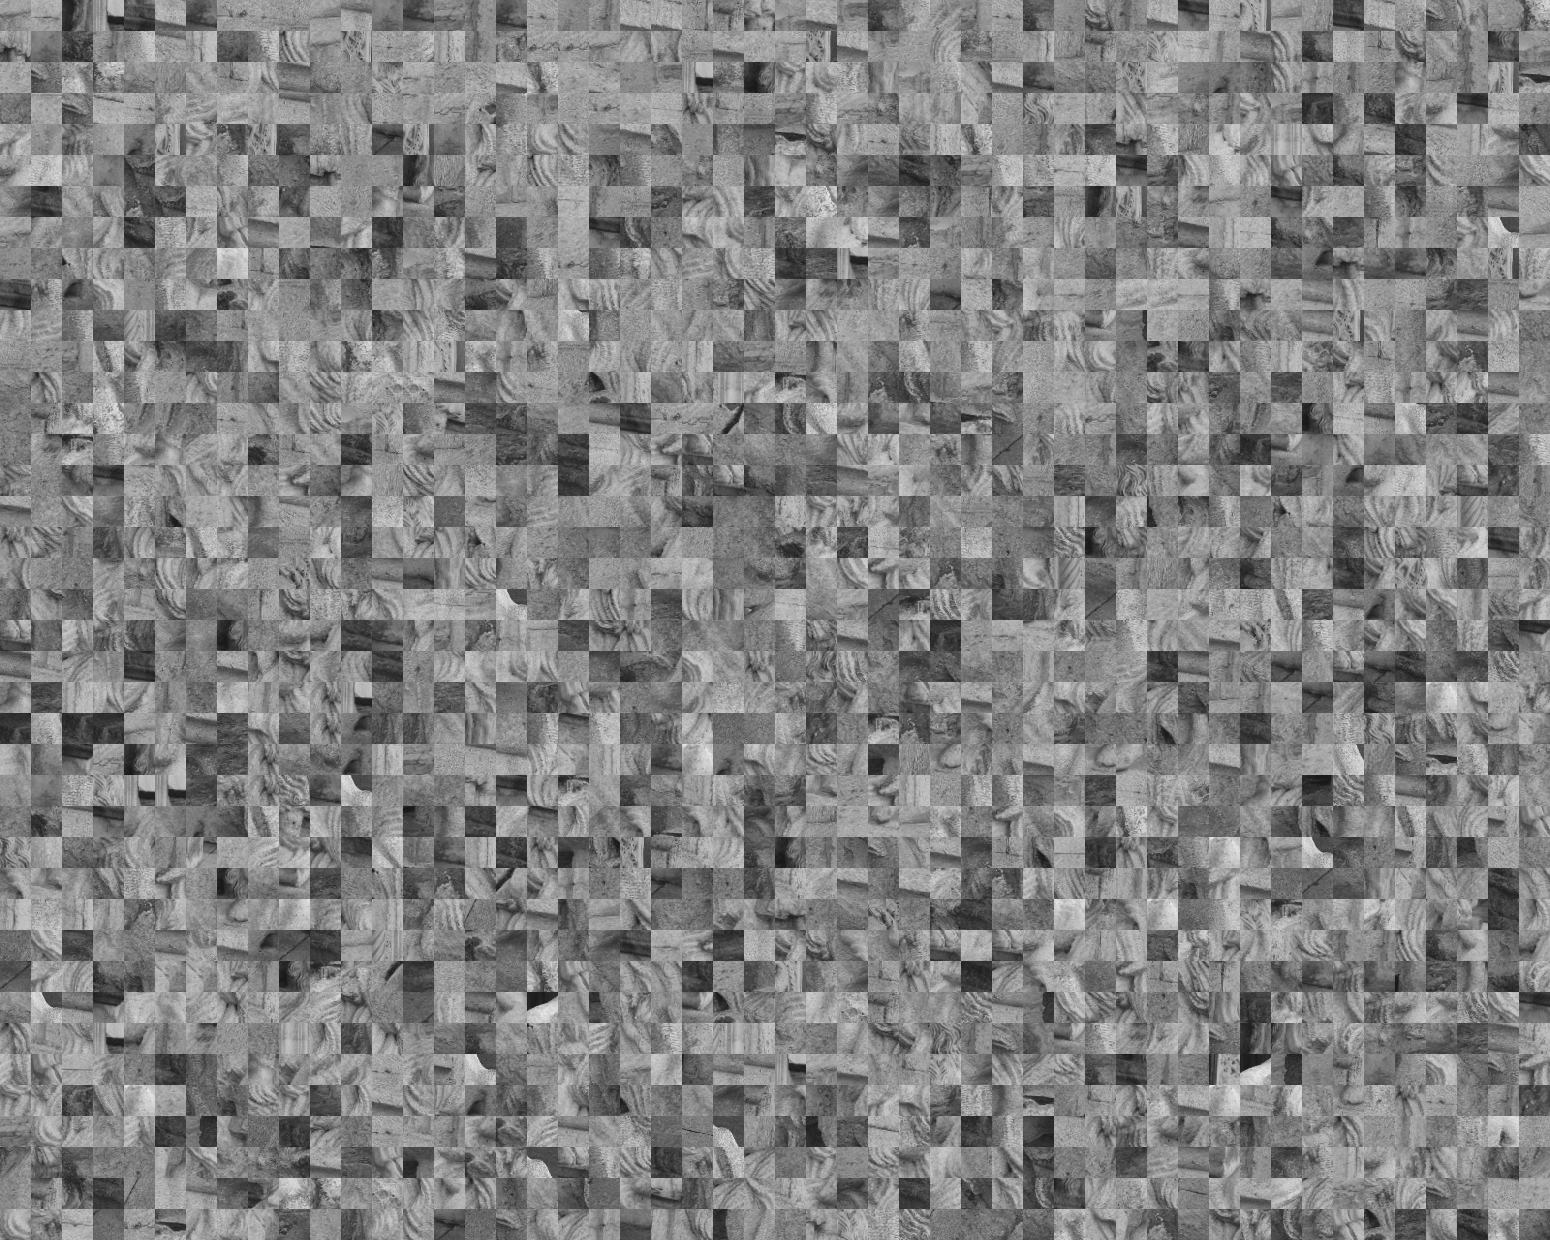
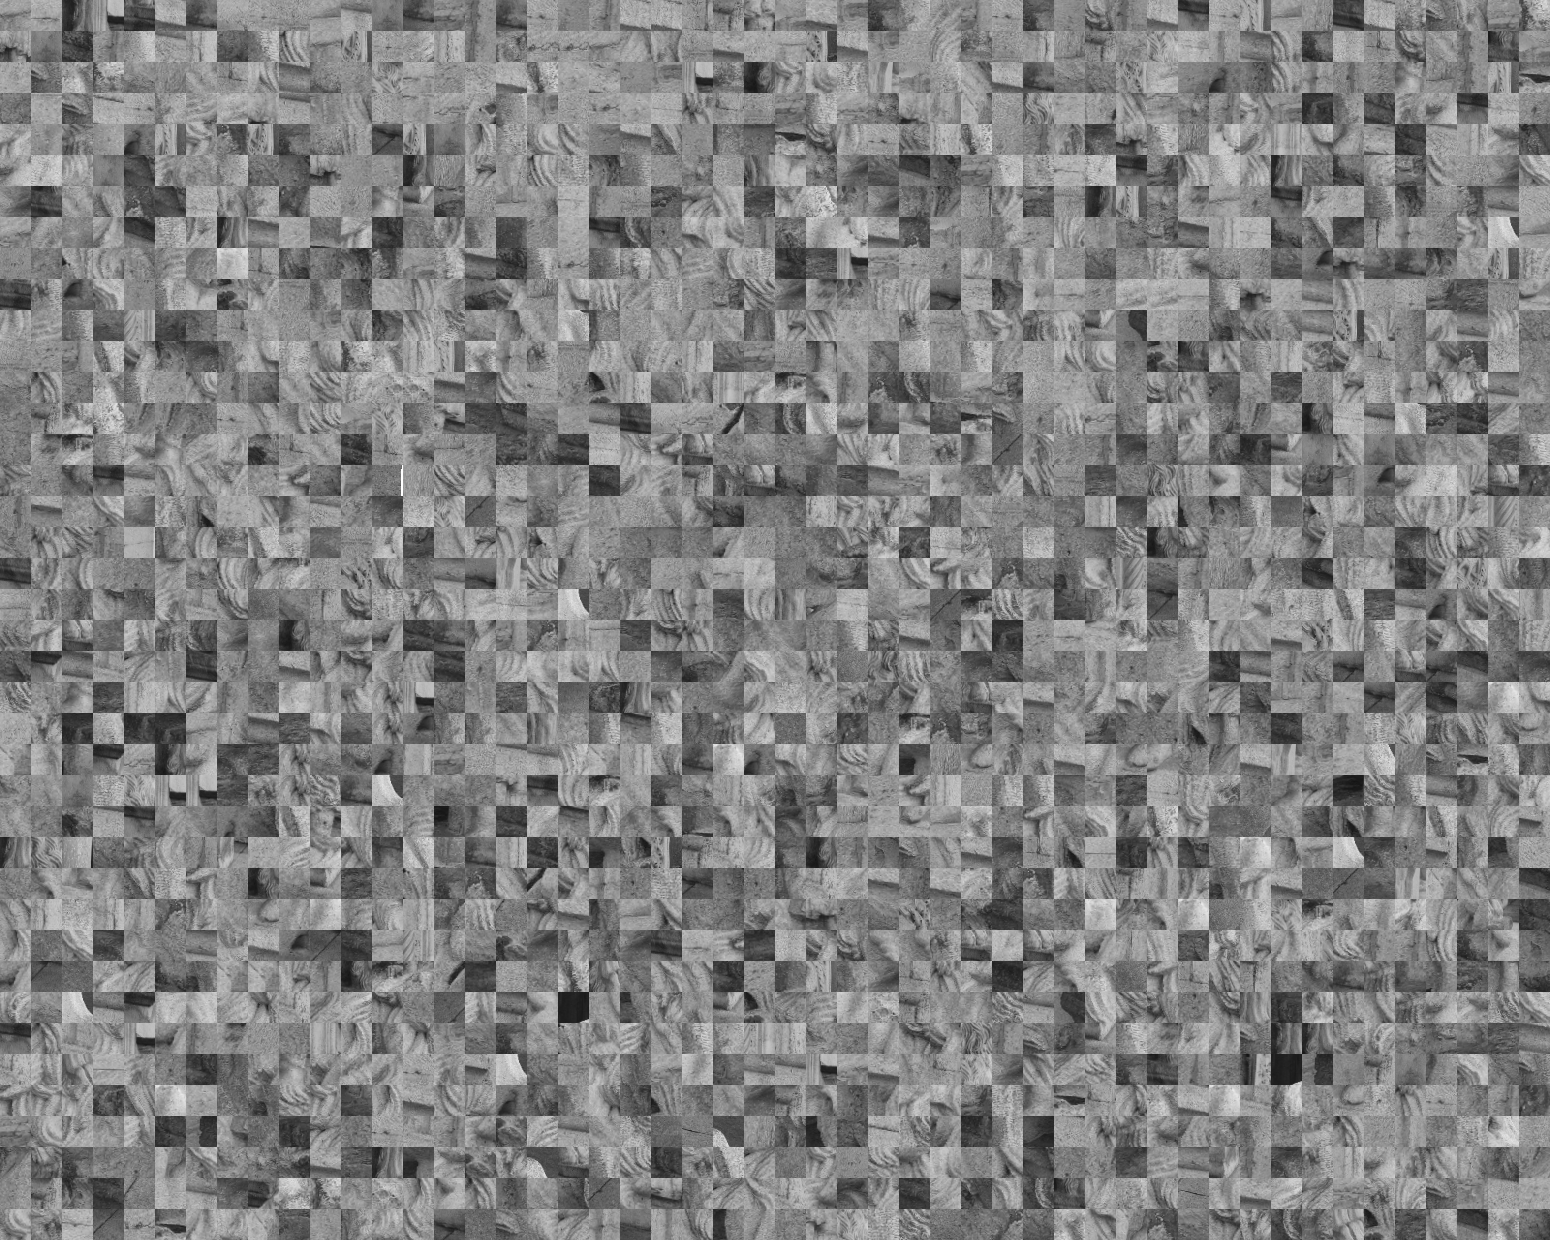
ncc ongoing

diff --git a/miho_buffered_rot_patch_pytorch.py b/miho_buffered_rot_patch_pytorch.py
@@ -11,9 +11,8 @@ device = torch.device('cuda' if torch.cuda.is_available() else 'cpu')
 EPS_ = torch.finfo(torch.float32).eps
 sqrt2 = np.sqrt(2)
 
-def refinement_norm_corr(im1, im2, Hs, pt1, pt2, w=15, ref_image=[0, 1], img_patches=False, save_prefix='ncc_patch_'):    
+def get_inverse(pt1, pt2, Hs):
     l = Hs.size()[0] 
-        
     Hs1, Hs2 = Hs.split(1, dim=1)
     Hs1 = Hs1.squeeze()
     Hs2 = Hs2.squeeze()
@@ -27,7 +26,14 @@ def refinement_norm_corr(im1, im2, Hs, pt1, pt2, w=15, ref_image=[0, 1], img_pat
     Hi1, Hi2 = Hi.split(1, dim=1)
     Hi1 = Hi1.squeeze()
     Hi2 = Hi2.squeeze()
-            
+    
+    return pt1_, pt2_, Hi, Hi1, Hi2
+
+def refinement_norm_corr(im1, im2, Hs, pt1, pt2, w=15, ref_image=[0, 1], img_patches=False, save_prefix='ncc_patch_'):    
+    l = Hs.size()[0] 
+        
+    pt1_, pt2_, Hi, Hi1, Hi2 = get_inverse(pt1, pt2, Hs)    
+                
     # +1 for the subpix
     w1 = w + 1
     patch1 = patchify(im1, pt1_.squeeze(), Hi1, w1*2)
@@ -40,12 +46,12 @@ def refinement_norm_corr(im1, im2, Hs, pt1, pt2, w=15, ref_image=[0, 1], img_pat
     patch_val = torch.full((2, l), -1, device=device, dtype=torch.float)
     patch_offset = torch.zeros(2, l, 2, device=device)
 
-    if 0 in ref_image:
+    if ('left' in ref_image) or ('both' in ref_image):
         patch_offset0, patch_val0 = norm_corr(patch2, patch1.reshape(l, -1)[:, vidx.flatten()].reshape(l, w1*2 + 1, w1*2 + 1))
         patch_offset[0] = patch_offset0
         patch_val[0] = patch_val0
 
-    if 1 in ref_image:
+    if ('right' in ref_image) or ('both' in ref_image):
         patch_offset1, patch_val1 = norm_corr(patch1, patch2.reshape(l, -1)[:, vidx.flatten()].reshape(l, w1*2 + 1, w1*2 + 1))
         patch_offset[1] = patch_offset1
         patch_val[1] = patch_val1
@@ -57,18 +63,24 @@ def refinement_norm_corr(im1, im2, Hs, pt1, pt2, w=15, ref_image=[0, 1], img_pat
     patch_offset[zidx.flatten()] = 0
     patch_offset = patch_offset.reshape(l, 2, 2)
     
-    pt1 = pt1 + patch_offset[:, 0]
-    pt2 = pt2 + patch_offset[:, 1]
+    pt1_ = pt1_ + patch_offset[:, 0]
+    pt2_ = pt2_ + patch_offset[:, 1]
 
-    pt1_ = Hi1.bmm(torch.hstack((pt1, torch.ones((pt1.size()[0], 1), device=device))).unsqueeze(-1)).squeeze()
-    pt1_ = pt1_[:, :2] / pt1_[:, 2].unsqueeze(-1)
-    pt2_ = Hi2.bmm(torch.hstack((pt2, torch.ones((pt2.size()[0], 1), device=device))).unsqueeze(-1)).squeeze()
-    pt2_ = pt2_[:, :2] / pt2_[:, 2].unsqueeze(-1)
-
+    pt1 = Hi1.bmm(torch.hstack((pt1_, torch.ones((pt1_.size()[0], 1), device=device))).unsqueeze(-1)).squeeze()
+    pt1 = pt1[:, :2] / pt1[:, 2].unsqueeze(-1)
+    pt2 = Hi2.bmm(torch.hstack((pt2_, torch.ones((pt2_.size()[0], 1), device=device))).unsqueeze(-1)).squeeze()
+    pt2 = pt2[:, :2] / pt2[:, 2].unsqueeze(-1)
+    
+    # T = torch.eye(3, device=device, dtype=torch.float).reshape(1, 1, 9).repeat(l, 2, 1).reshape(l*2, 9)
+    # aux = patch_offset.reshape(l*2, 2)
+    # T[:, 2] = aux[:, 0]
+    # T[:, 5] = aux[:, 1]
+    # T = T.reshape(l*2, 3, 3)
+    
     if img_patches:
         go_save_patches(im1, im2, pt1, pt2, Hs, w, save_prefix=save_prefix)
         
-    return pt1_, pt2_, Hs, val
+    return pt1, pt2, Hs, val
         
 
     # function [p2_new,p2_status,p2_err,p2_err_base,T]=ncorr(im1,im2,p1,p2,wr,Hs,s,T_,interp_max)
@@ -175,30 +187,11 @@ def refinement_norm_corr(im1, im2, Hs, pt1, pt2, w=15, ref_image=[0, 1], img_pat
     # p2_err=-abs(p2_err);
 
 
-
-
-    return pt1, pt2, Hs
-
-
-def go_save_patches(im1, im2, pt1, pt2, Hs, w, save_prefix='patch_'):
-    l = Hs.size()[0] 
-        
-    Hs1, Hs2 = Hs.split(1, dim=1)
-    Hs1 = Hs1.squeeze()
-    Hs2 = Hs2.squeeze()
-        
-    pt1 = Hs1.bmm(torch.hstack((pt1, torch.ones((pt1.size()[0], 1), device=device))).unsqueeze(-1)).squeeze()
-    pt1 = pt1[:, :2] / pt1[:, 2].unsqueeze(-1)
-    pt2 = Hs2.bmm(torch.hstack((pt2, torch.ones((pt2.size()[0], 1), device=device))).unsqueeze(-1)).squeeze()
-    pt2 = pt2[:, :2] / pt2[:, 2].unsqueeze(-1)
-    
-    Hi = torch.linalg.inv(Hs.reshape(l*2, 3, 3)).reshape(l, 2, 3, 3)    
-    Hi1, Hi2 = Hi.split(1, dim=1)
-    Hi1 = Hi1.squeeze()
-    Hi2 = Hi2.squeeze()
+def go_save_patches(im1, im2, pt1, pt2, Hs, w, save_prefix='patch_'):        
+    pt1_, pt2_, _, Hi1, Hi2 = get_inverse(pt1, pt2, Hs) 
             
-    patch1 = patchify(im1, pt1, Hi1, w)
-    patch2 = patchify(im2, pt2, Hi2, w)
+    patch1 = patchify(im1, pt1_, Hi1, w)
+    patch2 = patchify(im2, pt2_, Hi2, w)
 
     save_patch(patch1, save_prefix=save_prefix, save_suffix='_a.png')
     save_patch(patch2, save_prefix=save_prefix, save_suffix='_b.png')
@@ -1367,6 +1360,6 @@ if __name__ == '__main__':
     w = 15
     
     pt1_, pt2_, Hs_ = refinement_init(mihoo.im1, mihoo.im2, mihoo.Hidx, mihoo.Hs, mihoo.pt1, mihoo.pt2, w=15, img_patches=True)        
-    pt1__, pt2__, Hs__, val = refinement_norm_corr(mihoo.im1, mihoo.im2, Hs_, pt1_, pt2_, w=15, ref_image=[0, 1], img_patches=True)   
+    pt1__, pt2__, Hs__, val = refinement_norm_corr(mihoo.im1, mihoo.im2, Hs_, pt1_, pt2_, w=15, ref_image=['both'], img_patches=True)   
     
     mihoo.show_clustering()
